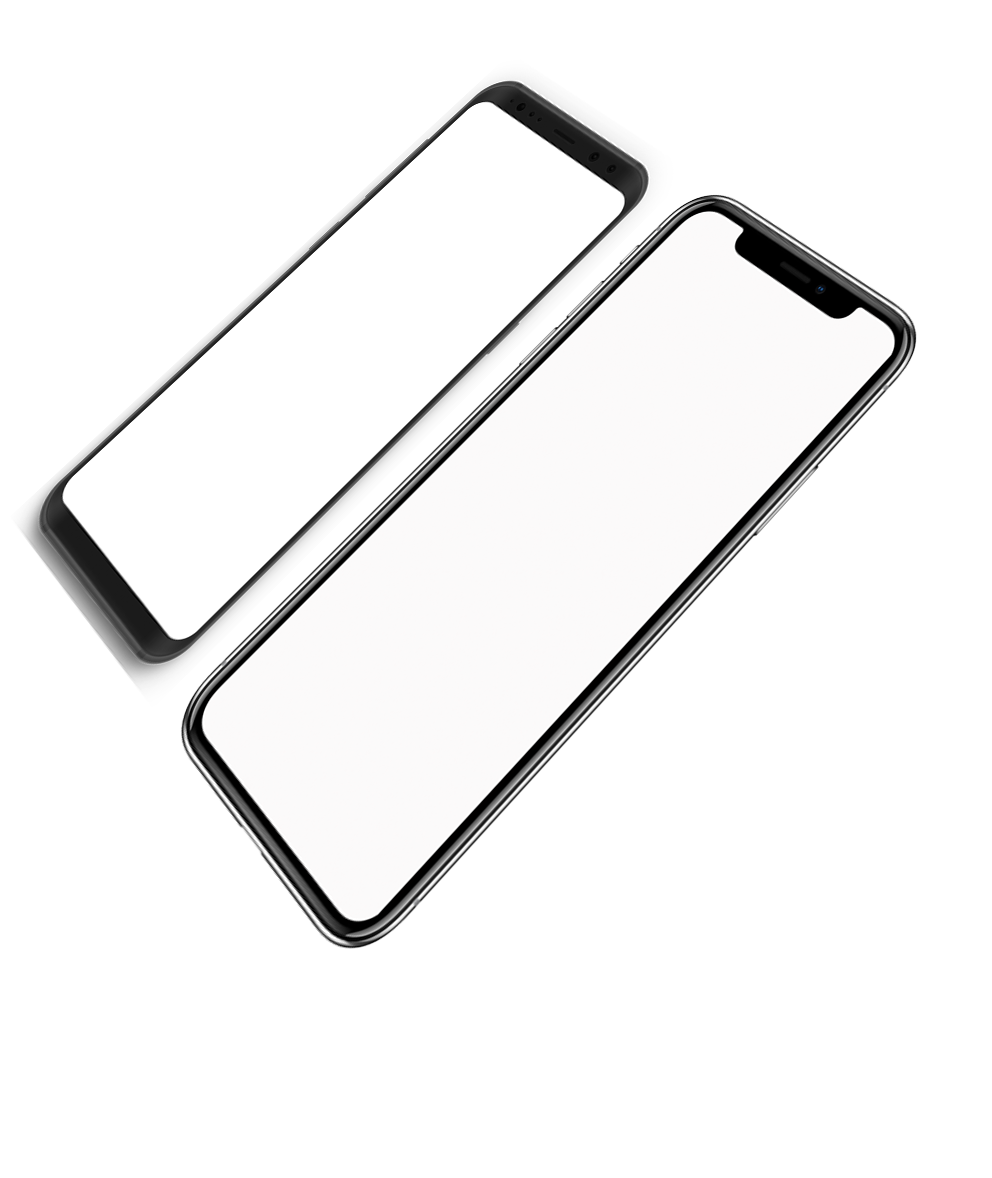
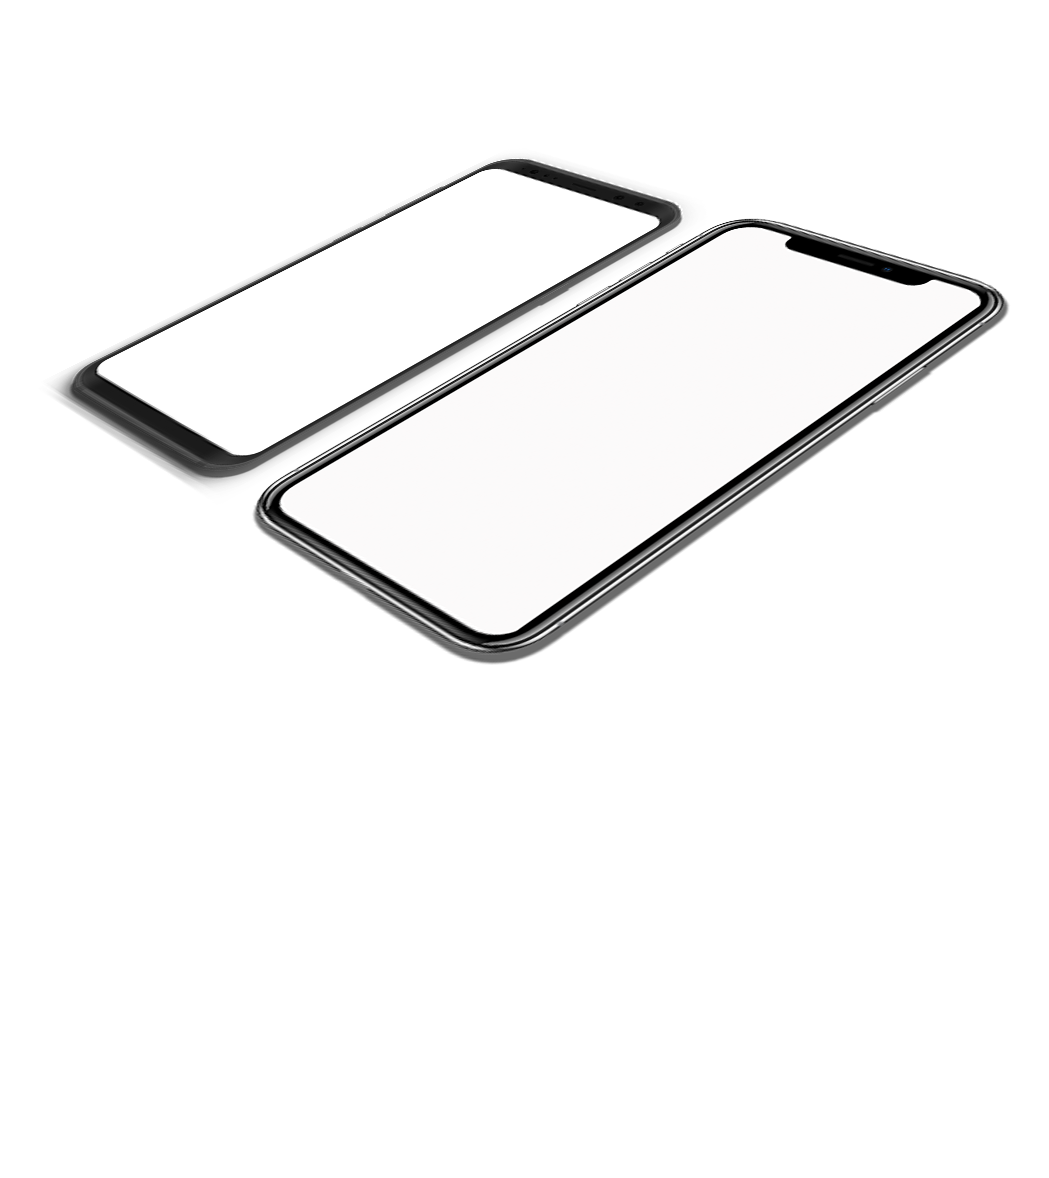
working in the download page

Changed region(s): [[0.0, 0.0611, 0.9688, 0.8251], [0.1562, 0.2139, 0.3125, 0.3056]]

diff --git a/public/css/download.css b/public/css/download.css
@@ -320,6 +320,13 @@ footer{
     width: 161px;
     height: 48px;
 }
+.btn-below {
+    border-radius: 17px;
+    background: #ff9d2c;
+    padding-left: 30px;
+    padding-right: 30px;
+    color: #fff;
+}
 @media (max-width: 47.99em){
 	.main-header, .main-body {
 	    display: block;
@@ -436,7 +443,7 @@ footer{
         margin-bottom: 9em;
     }
     .app-page .mobile-devices {
-        top: -50px;
-        right: 50px;
+        top: 18px;
+        right: 70px;
     }
 }
